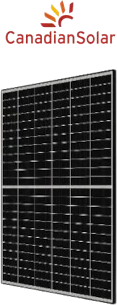
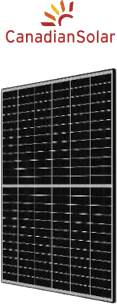
PNG-uri decupate curat (de-franjurare pe margini) si eliminarea haloului de umbra

diff --git a/machete/stil-v2.css b/machete/stil-v2.css
@@ -1568,3 +1568,7 @@ svg{width:100%;height:100%}
 /* --- textul din bara de cautare se micsoreaza odata cu ecranul --- */
 .srch input{font-size:clamp(12.4px, .92vw, 14.6px)}
 .srch input::placeholder{font-size:clamp(12px, .88vw, 14.2px)}
+
+/* --- fara halou in jurul produselor decupate --- */
+.ad2-img{filter:none !important}
+.ad-panouri .ad2-img,.ad-montaj .ad2-img{filter:drop-shadow(0 8px 14px rgba(16,24,40,.16)) !important}
